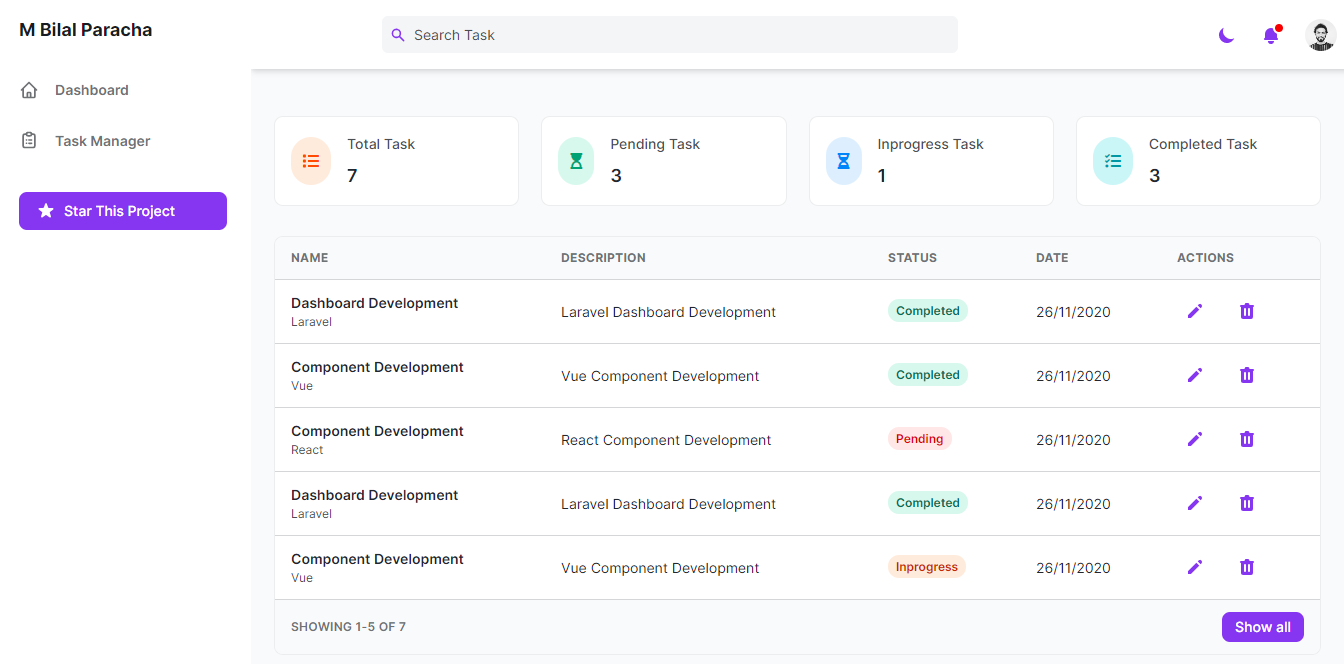
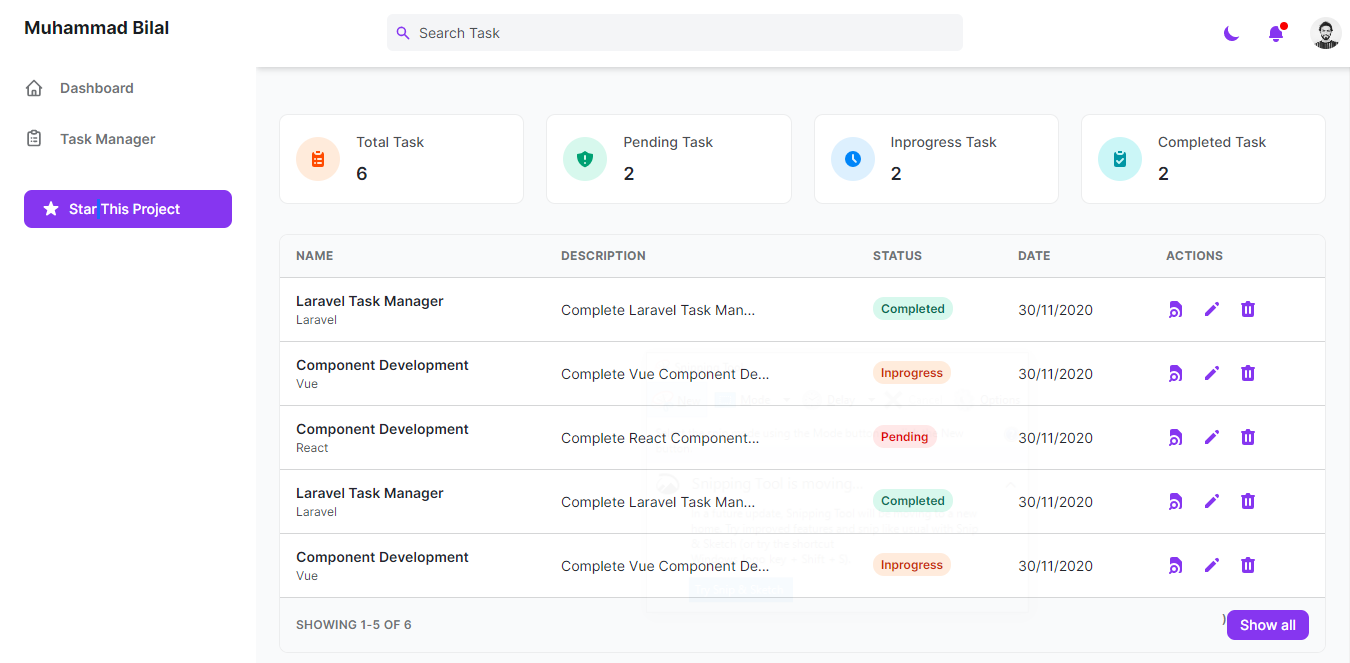
View Task

diff --git a/resources/views/dashboard.blade.php b/resources/views/dashboard.blade.php
@@ -38,7 +38,10 @@
                   class="p-3 mr-4 text-orange-500 bg-orange-100 rounded-full dark:text-orange-100 dark:bg-orange-500"
                 >
 
-                <i class="fas fa-list"></i>
+                <svg class="w-5 h-5" aria-hidden="true" viewBox="0 0 20 20" fill="currentColor">
+                  <path d="M9 2a1 1 0 000 2h2a1 1 0 100-2H9z" />
+                  <path fill-rule="evenodd" d="M4 5a2 2 0 012-2 3 3 0 003 3h2a3 3 0 003-3 2 2 0 012 2v11a2 2 0 01-2 2H6a2 2 0 01-2-2V5zm3 4a1 1 0 000 2h.01a1 1 0 100-2H7zm3 0a1 1 0 000 2h3a1 1 0 100-2h-3zm-3 4a1 1 0 100 2h.01a1 1 0 100-2H7zm3 0a1 1 0 100 2h3a1 1 0 100-2h-3z" clip-rule="evenodd" />
+                </svg>
                 </div>
                 <div>
                   <p
@@ -49,7 +52,7 @@
                   <p
                     class="text-lg font-semibold text-gray-700 dark:text-gray-200"
                   >
-                    {{$total}}
+                  {{$task->total()}}
                   </p>
                 </div>
               </div>
@@ -60,7 +63,10 @@
                 <div
                   class="p-3 mr-4 text-green-500 bg-green-100 rounded-full dark:text-green-100 dark:bg-green-500"
                 >
-                <i class="fas fa-hourglass-start"></i>
+                <svg class="w-5 h-5"
+                                aria-hidden="true" viewBox="0 0 20 20" fill="currentColor">
+  <path fill-rule="evenodd" d="M10 1.944A11.954 11.954 0 012.166 5C2.056 5.649 2 6.319 2 7c0 5.225 3.34 9.67 8 11.317C14.66 16.67 18 12.225 18 7c0-.682-.057-1.35-.166-2.001A11.954 11.954 0 0110 1.944zM11 14a1 1 0 11-2 0 1 1 0 012 0zm0-7a1 1 0 10-2 0v3a1 1 0 102 0V7z" clip-rule="evenodd" />
+</svg>
                 </div>
                 <div>
                   <p
@@ -82,7 +88,10 @@
                 <div
                   class="p-3 mr-4 text-blue-500 bg-blue-100 rounded-full dark:text-blue-100 dark:bg-blue-500"
                 >
-                <i class="fas fa-hourglass-half"></i>
+                <svg class="w-5 h-5"
+                                aria-hidden="true" viewBox="0 0 20 20" fill="currentColor">
+  <path fill-rule="evenodd" d="M10 18a8 8 0 100-16 8 8 0 000 16zm1-12a1 1 0 10-2 0v4a1 1 0 00.293.707l2.828 2.829a1 1 0 101.415-1.415L11 9.586V6z" clip-rule="evenodd" />
+</svg>
                 </div>
                 <div>
                   <p
@@ -104,7 +113,10 @@
                 <div
                   class="p-3 mr-4 text-teal-500 bg-teal-100 rounded-full dark:text-teal-100 dark:bg-teal-500"
                 >
-                <i class="fas fa-tasks"></i>
+                <svg class="w-5 h-5" aria-hidden="true" viewBox="0 0 20 20" fill="currentColor">
+                  <path d="M9 2a1 1 0 000 2h2a1 1 0 100-2H9z" />
+                  <path fill-rule="evenodd" d="M4 5a2 2 0 012-2 3 3 0 003 3h2a3 3 0 003-3 2 2 0 012 2v11a2 2 0 01-2 2H6a2 2 0 01-2-2V5zm9.707 5.707a1 1 0 00-1.414-1.414L9 12.586l-1.293-1.293a1 1 0 00-1.414 1.414l2 2a1 1 0 001.414 0l4-4z" clip-rule="evenodd" />
+                </svg>
                 </div>
                 <div>
                   <p
@@ -133,7 +145,7 @@
                         <th class="px-4 py-3">Description</th>
                         <th class="px-4 py-3">Status</th>
                         <th class="px-4 py-3">Date</th>
-                        <th class="px-4 py-3">Actions</th>
+                        <th class="px-6 py-3">Actions</th>
                       </tr>
                     </thead>
                     <tbody class="bg-white divide-y dark:divide-gray-700 dark:bg-gray-800">
@@ -152,7 +164,7 @@
                           </div>
                         </td>
                         <td class="px-4 py-3 text-sm">
-                        {{$tasks->description}}
+                        {{Str::limit($tasks->description, 25)}}
                         </td>
                         <td class="px-4 py-3 text-xs">
                           @if($tasks->status == 'completed')
@@ -179,7 +191,19 @@
                         {{\Carbon\Carbon::parse($tasks->created_at)->format('d/m/Y')}}
                         </td>
                         <td class="px-4 py-3">
-                          <div class="flex items-center space-x-4 text-sm">
+                          <div class="flex items-center space-x-2 text-sm">
+                            <button onclick="location.href='{{ route('tasks.show',$tasks->id)}}'"
+                              class="flex items-center justify-between px-2 py-2 text-sm font-medium leading-5 text-purple-600 rounded-lg dark:text-gray-400 focus:outline-none focus:shadow-outline-gray"
+                              aria-label="Edit"
+                            >
+                            <svg class="w-5 h-5" value
+                                aria-hidden="true" viewBox="0 0 20 20" fill="currentColor">
+                                <title>View</title>
+                            <path d="M4 4a2 2 0 012-2h4.586A2 2 0 0112 2.586L15.414 6A2 2 0 0116 7.414V16a2 2 0 01-2 2h-1.528A6 6 0 004 9.528V4z" />
+                            <path fill-rule="evenodd" d="M8 10a4 4 0 00-3.446 6.032l-1.261 1.26a1 1 0 101.414 1.415l1.261-1.261A4 4 0 108 10zm-2 4a2 2 0 114 0 2 2 0 01-4 0z" clip-rule="evenodd" />
+
+                          </svg>
+                            </button>
                             <button onclick="location.href='{{ route('tasks.edit',$tasks->id)}}'"
                               class="flex items-center justify-between px-2 py-2 text-sm font-medium leading-5 text-purple-600 rounded-lg dark:text-gray-400 focus:outline-none focus:shadow-outline-gray"
                               aria-label="Edit"
@@ -190,6 +214,7 @@
                                 fill="currentColor"
                                 viewBox="0 0 20 20"
                               >
+                              <title>Edit</title>
                                 <path
                                   d="M13.586 3.586a2 2 0 112.828 2.828l-.793.793-2.828-2.828.793-.793zM11.379 5.793L3 14.172V17h2.828l8.38-8.379-2.83-2.828z"
                                 ></path>
@@ -208,6 +233,7 @@
                                 fill="currentColor"
                                 viewBox="0 0 20 20"
                               >
+                              <title>Delete</title>
                                 <path
                                   fill-rule="evenodd"
                                   d="M9 2a1 1 0 00-.894.553L7.382 4H4a1 1 0 000 2v10a2 2 0 002 2h8a2 2 0 002-2V6a1 1 0 100-2h-3.382l-.724-1.447A1 1 0 0011 2H9zM7 8a1 1 0 012 0v6a1 1 0 11-2 0V8zm5-1a1 1 0 00-1 1v6a1 1 0 102 0V8a1 1 0 00-1-1z"
@@ -227,14 +253,14 @@
                   class="grid px-4 py-3 text-xs font-semibold tracking-wide text-gray-500 uppercase border-t dark:border-gray-700 bg-gray-50 sm:grid-cols-9 dark:text-gray-400 dark:bg-gray-800">
                   <span class="flex items-center col-span-3">
                     Showing
-                    @if(count($task)!=0)
+                    @if(count($total)!=0)
                     {{$task->firstItem()}}-{{$task->lastItem()}} of {{$task->total()}}
                     @endif
                   </span>
                   <span class="col-span-2"></span>
                   <!-- Pagination -->
                   <span class="flex col-span-4 mt-2 sm:mt-auto sm:justify-end">
-                  @if(count($task)>5))
+                @if(count($total)>5))
                 <button onclick="location.href='{{ route('tasks.index') }}'" class="flex items-center justify-between w-half px-3 py-1 text-sm font-medium leading-5 text-white transition-colors duration-150 bg-purple-600 border border-transparent rounded-lg active:bg-purple-600 hover:bg-purple-700 focus:outline-none focus:shadow-outline-purple">
                   Show all
                 </button>

diff --git a/resources/views/tasks/show.blade.php b/resources/views/tasks/show.blade.php
@@ -1,0 +1,123 @@
+@extends('layouts.master')
+
+@section('title')
+    Task Manager
+@endsection()
+
+@push('scripts')
+    <script src="https://code.jquery.com/jquery-3.5.1.min.js" integrity="sha256-9/aliU8dGd2tb6OSsuzixeV4y/faTqgFtohetphbbj0=" crossorigin="anonymous"></script>
+    <script>
+      document.getElementById('body').onkeyup = function(e) {
+        if (e.keyCode === 13) {
+          document.getElementById('search').submit(); // your form has an id="form"
+        }
+        return true;
+      }
+    </script>
+    <script>
+      $(':radio,:checkbox').click(function(){
+      return false;
+      });
+    </script>
+@endpush
+
+@section('search')
+<form id="search" action="{{ route('tasks.search') }}" method="GET">
+  @csrf
+  <input class="w-full pl-8 pr-2 text-sm text-gray-700 placeholder-gray-600 bg-gray-100 border-0 rounded-md dark:placeholder-gray-500 dark:focus:shadow-outline-gray dark:focus:placeholder-gray-600 dark:bg-gray-700 dark:text-gray-200 focus:placeholder-gray-500 focus:bg-white focus:border-purple-300 focus:outline-none focus:shadow-outline-purple form-input"
+  type="text"
+  name="term"
+  placeholder="Search Task"
+  aria-label="Search" />
+</form>
+@endsection()
+
+@section('content')
+      <div class="container px-6 mx-auto grid">
+        <div class="px-6 my-6"></div>
+          <!-- General elements -->
+          <div class="px-4 py-3 mb-8 bg-white rounded-lg shadow-md dark:bg-gray-800">
+          <label class="block mt-4 text-sm">
+              <span class="text-gray-700 dark:text-gray-400">Name</span>
+              <input
+                class="block w-full mt-1 text-sm dark:border-gray-600 dark:bg-gray-700 focus:border-purple-400 focus:outline-none focus:shadow-outline-purple dark:text-gray-300 dark:focus:shadow-outline-gray form-input"
+                value= "{{ $task->name }}" name ="name" readonly="true"
+              />
+            </label>
+
+            <label class="block mt-4 text-sm">
+              <span class="text-gray-700 dark:text-gray-400">Category</span>
+              <input
+                class="block w-full mt-1 text-sm dark:border-gray-600 dark:bg-gray-700 focus:border-purple-400 focus:outline-none focus:shadow-outline-purple dark:text-gray-300 dark:focus:shadow-outline-gray form-input"
+                value= "{{ $task->category }}" name ="category" readonly="true"
+              />
+            </label>
+
+            <div class="mt-4 text-sm">
+                <span class="text-gray-700 dark:text-gray-400">
+                  Task Status
+                </span>
+                <div class="mt-2">
+                  <label
+                    class="inline-flex items-center text-gray-600 dark:text-gray-400"
+                  >
+                    <input
+                      type="radio"
+                      class="text-purple-600 form-radio focus:border-purple-400 focus:outline-none focus:shadow-outline-purple dark:focus:shadow-outline-gray"
+                      name="status"
+                      value="pending"
+                      readonly="true"
+                      {{ ($task->status=="pending")? "checked" : "" }}
+                    />
+                    <span class="ml-2">Pending</span>
+                  </label>
+                  <label
+                    class="inline-flex items-center ml-6 text-gray-600 dark:text-gray-400"
+                  >
+                    <input
+                      type="radio"
+                      class="text-purple-600 form-radio focus:border-purple-400 focus:outline-none focus:shadow-outline-purple dark:focus:shadow-outline-gray"
+                      name="status"
+                      value="inprogress"
+                      readonly="true"
+                      {{ ($task->status=="inprogress")? "checked" : "" }}
+                    />
+                    <span class="ml-2">Inprogress</span>
+                  </label>
+
+                  <label
+                    class="inline-flex items-center ml-6 text-gray-600 dark:text-gray-400"
+                  >
+                    <input
+                      type="radio"
+                      class="text-purple-600 form-radio focus:border-purple-400 focus:outline-none focus:shadow-outline-purple dark:focus:shadow-outline-gray"
+                      name="status"
+                      value="completed"
+                      readonly="true"
+                      {{ ($task->status=="completed")? "checked" : "" }}
+                    />
+                    <span class="ml-2">Completed</span>
+                  </label>
+                </div>
+              </div>
+
+
+            <label class="block mt-4 text-sm">
+              <span class="text-gray-700 dark:text-gray-400">Description</span>
+              <textarea
+                class="block w-full mt-1 text-sm dark:text-gray-300 dark:border-gray-600 dark:bg-gray-700 form-textarea focus:border-purple-400 focus:outline-none focus:shadow-outline-purple dark:focus:shadow-outline-gray"
+                rows="3"
+                name ="description"
+                readonly="true"
+              >{{ $task->description }}</textarea>
+            </label>
+
+            <div class="flex mt-6 text-sm" float="left">
+              <button onclick="location.href='{{ url()->previous() }}'" type="button" class="flex items-center justify-between w-half px-3 py-1 text-sm font-medium leading-5 text-white transition-colors duration-150 bg-purple-600 border border-transparent rounded-lg active:bg-purple-600 hover:bg-purple-700 focus:outline-none focus:shadow-outline-purple">
+                Back
+              </button>
+            </div>
+          </div>
+      </div>
+
+@endsection()

diff --git a/resources/views/tasks/index.blade.php b/resources/views/tasks/index.blade.php
@@ -57,7 +57,7 @@
                         <th class="px-4 py-3">Description</th>
                         <th class="px-4 py-3">Status</th>
                         <th class="px-4 py-3">Date</th>
-                        <th class="px-4 py-3">Actions</th>
+                        <th class="px-6 py-3">Actions</th>
                       </tr>
                     </thead>
                     <tbody class="bg-white divide-y dark:divide-gray-700 dark:bg-gray-800">
@@ -76,7 +76,7 @@
                           </div>
                         </td>
                         <td class="px-4 py-3 text-sm">
-                        {{$tasks->description}}
+                        {{Str::limit($tasks->description, 25)}}
                         </td>
                         <td class="px-4 py-3 text-xs">
                           @if($tasks->status == 'completed')
@@ -103,7 +103,17 @@
                         {{\Carbon\Carbon::parse($tasks->created_at)->format('d/m/Y')}}
                         </td>
                         <td class="px-4 py-3">
-                          <div class="flex items-center space-x-4 text-sm">
+                          <div class="flex items-center space-x-2 text-sm">
+                          <button onclick="location.href='{{ route('tasks.show',$tasks->id)}}'"
+                              class="flex items-center justify-between px-2 py-2 text-sm font-medium leading-5 text-purple-600 rounded-lg dark:text-gray-400 focus:outline-none focus:shadow-outline-gray"
+                              aria-label="Edit"
+                            >
+                          <svg class="w-5 h-5" aria-hidden="true" viewBox="0 0 20 20" fill="currentColor">
+                          <title>View</title>
+                            <path d="M4 4a2 2 0 012-2h4.586A2 2 0 0112 2.586L15.414 6A2 2 0 0116 7.414V16a2 2 0 01-2 2h-1.528A6 6 0 004 9.528V4z" />
+                            <path fill-rule="evenodd" d="M8 10a4 4 0 00-3.446 6.032l-1.261 1.26a1 1 0 101.414 1.415l1.261-1.261A4 4 0 108 10zm-2 4a2 2 0 114 0 2 2 0 01-4 0z" clip-rule="evenodd" />
+                          </svg>
+                            </button>
                             <button onclick="location.href='{{ route('tasks.edit',$tasks->id)}}'"
                               class="flex items-center justify-between px-2 py-2 text-sm font-medium leading-5 text-purple-600 rounded-lg dark:text-gray-400 focus:outline-none focus:shadow-outline-gray"
                               aria-label="Edit"
@@ -114,6 +124,7 @@
                                 fill="currentColor"
                                 viewBox="0 0 20 20"
                               >
+                              <title>Edit</title>
                                 <path
                                   d="M13.586 3.586a2 2 0 112.828 2.828l-.793.793-2.828-2.828.793-.793zM11.379 5.793L3 14.172V17h2.828l8.38-8.379-2.83-2.828z"
                                 ></path>
@@ -132,6 +143,7 @@
                                 fill="currentColor"
                                 viewBox="0 0 20 20"
                               >
+                              <title>Delete</title>
                                 <path
                                   fill-rule="evenodd"
                                   d="M9 2a1 1 0 00-.894.553L7.382 4H4a1 1 0 000 2v10a2 2 0 002 2h8a2 2 0 002-2V6a1 1 0 100-2h-3.382l-.724-1.447A1 1 0 0011 2H9zM7 8a1 1 0 012 0v6a1 1 0 11-2 0V8zm5-1a1 1 0 00-1 1v6a1 1 0 102 0V8a1 1 0 00-1-1z"

diff --git a/app/Http/Controllers/DashboardController.php b/app/Http/Controllers/DashboardController.php
@@ -8,13 +8,13 @@ class DashboardController extends Controller
 {
     public function index()
     {
+
+        $total = Auth::user()->tasks;
         $task = Auth::user()->tasks()->paginate(5);
 
-        $total = count($task->all());
-        $pending = count($task->where('status', 'pending'));
-
-        $inprogress = count($task->where('status', 'inprogress'));
-        $completed = count($task->where('status', 'completed'));
+        $pending = count($total->where('status', 'pending'));
+        $inprogress = count($total->where('status', 'inprogress'));
+        $completed = count($total->where('status', 'completed'));
 
         return view('dashboard', compact('task', 'total', 'pending', 'inprogress', 'completed'));
     }

diff --git a/resources/views/tasks/search.blade.php b/resources/views/tasks/search.blade.php
@@ -85,7 +85,7 @@
                           </div>
                         </td>
                         <td class="px-4 py-3 text-sm">
-                        {{$tasks->description}}
+                        {{Str::limit($tasks->description, 25)}}
                         </td>
                         <td class="px-4 py-3 text-xs">
                           @if($tasks->status == 'completed')

diff --git a/app/Http/Controllers/TaskController.php b/app/Http/Controllers/TaskController.php
@@ -62,7 +62,8 @@ class TaskController extends Controller
      */
     public function show(Task $task)
     {
-        //
+        Auth::user()->tasks()->findOrFail($task->id);
+        return view('tasks.show', compact('task'));
     }
 
     /**
